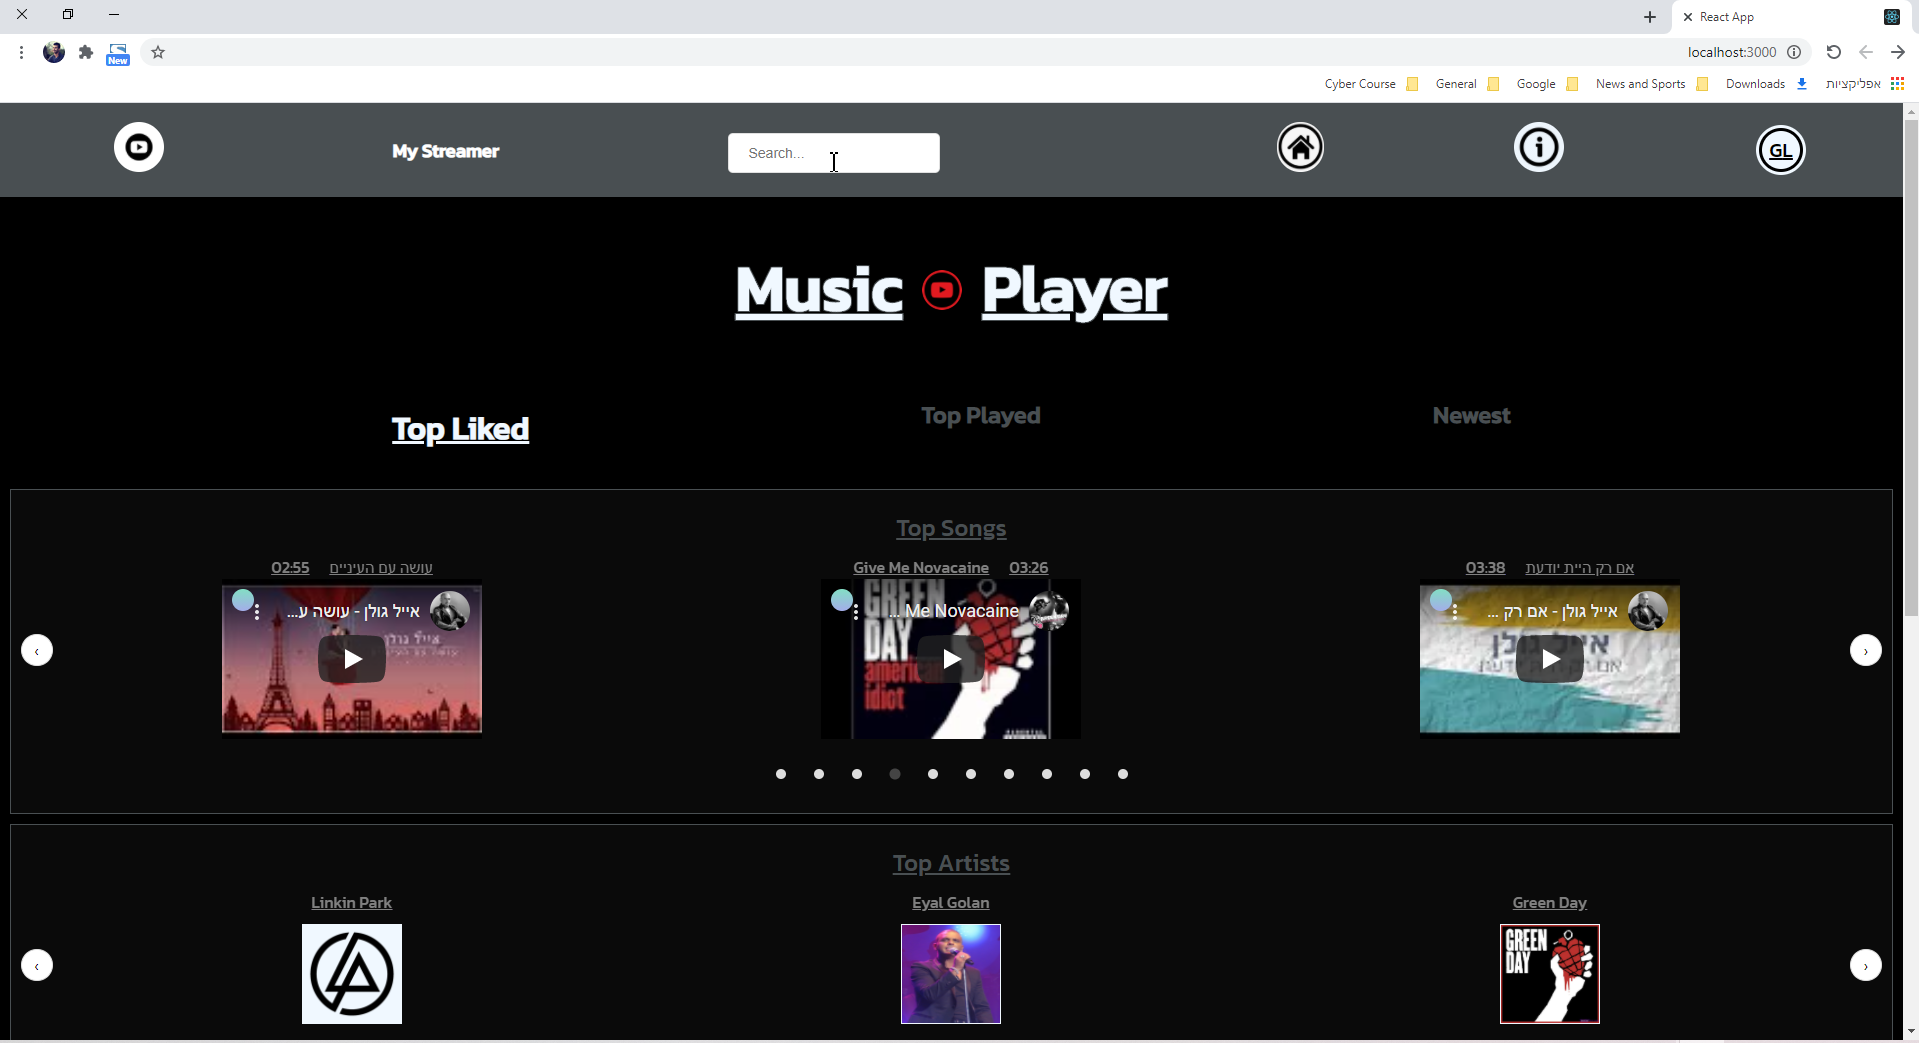
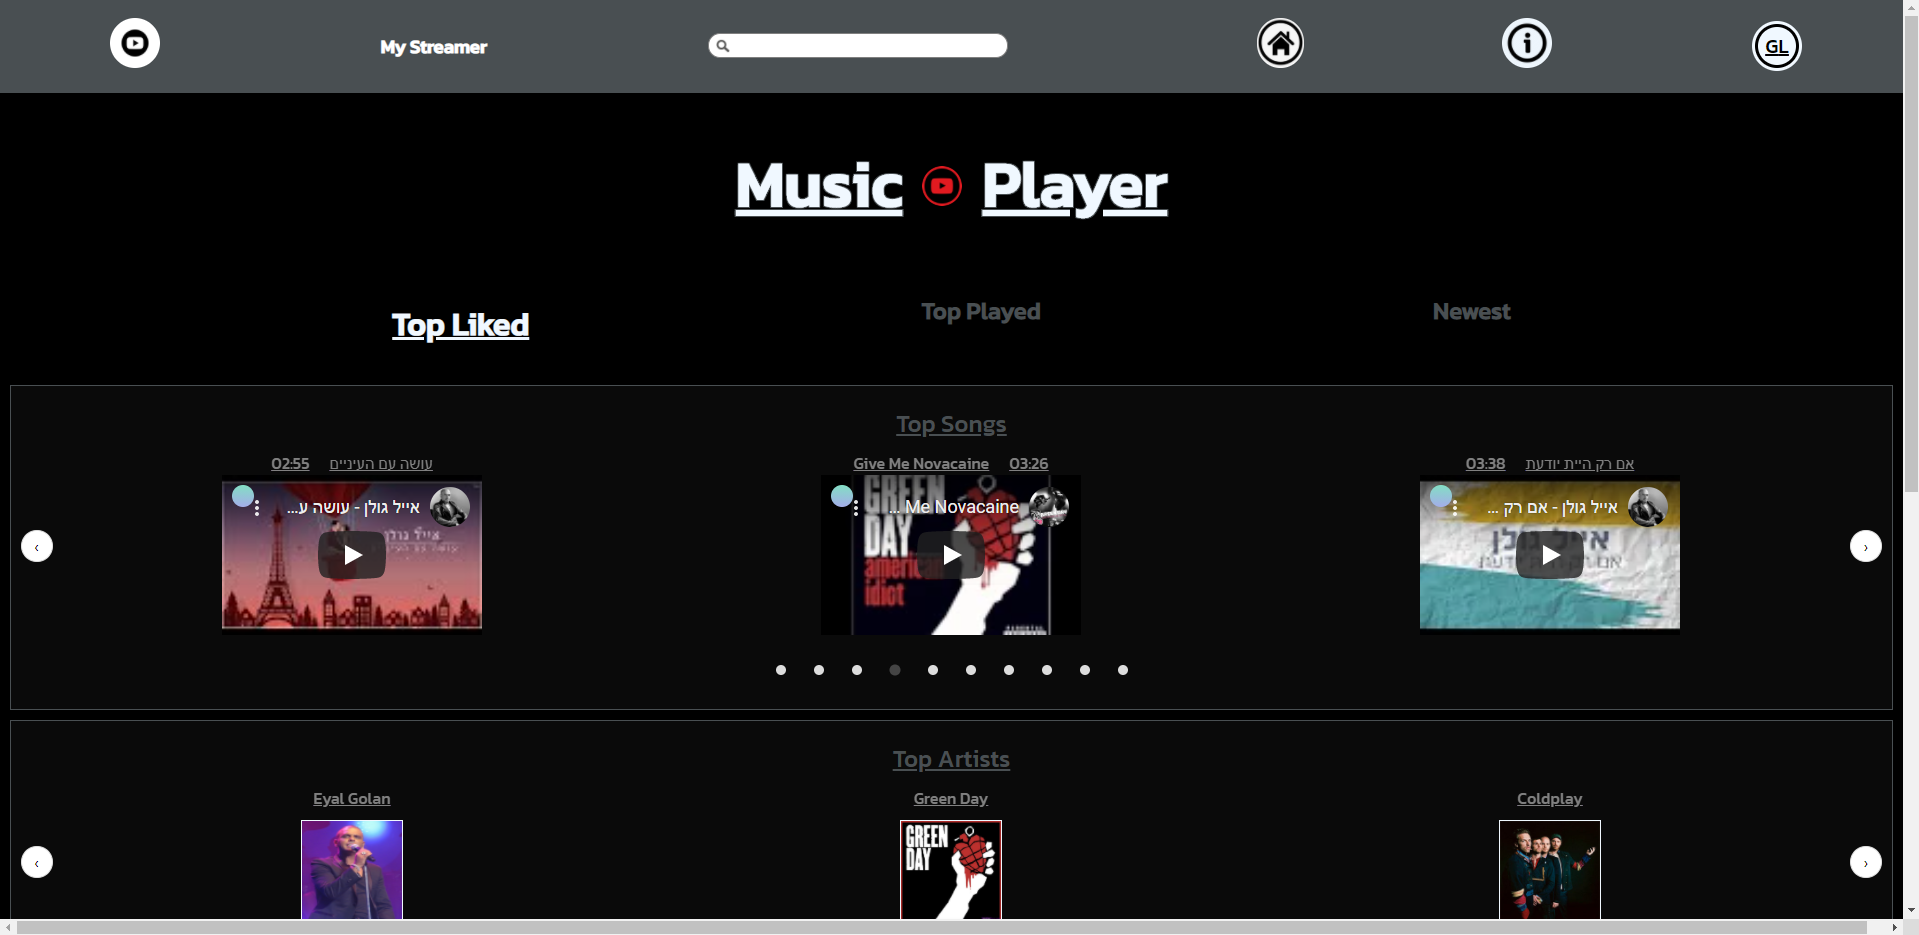
change the search bar and the read me file

diff --git a/server/routes/searchRoute.js b/server/routes/searchRoute.js
@@ -5,49 +5,55 @@ const { Op } = require("sequelize");
 const router = Router();
 
 router.get('/', async (req, res) => {
-
-    const allSongs = await Song.findAll({
-        where: {
-            title: {
-                [Op.startsWith]: req.query.params
-            }
-        }
-    });
-    const allArtists = await Artist.findAll({
-        where: {
-            name: {
-                [Op.startsWith]: req.query.params
-            }
-        }
-    });
-    const allAlbums = await Album.findAll({
-        where: {
-            name: {
-                [Op.startsWith]: req.query.params
-            }
-        }
-    });
-    const allPlaylists = await Playlist.findAll({
-        where: {
-            name: {
-                [Op.startsWith]: req.query.params
-            }
-        }
-    });
-
-    const songs = allSongs.map(song => {return ({ id: song.id, value: song.title, type: "song" }) })
-    const artists = allArtists.map(artist => {return ({ id: artist.id, value: artist.name, type: "artist" }) })
-    const albums = allAlbums.map(album => {return ({ id: album.id, value: album.name, type: "album" }) })
-    const playlists = allPlaylists.map(playlist => {return ({ id: playlist.id, value: playlist.name, type: "playlist" }) })
-
-    const arr = [];
-    songs.forEach(song => {arr.push(song)});
-    artists.forEach(artist => {arr.push(artist)});
-    albums.forEach(album => {arr.push(album)});
-    playlists.forEach(playlist => {arr.push(playlist)});
-
-    res.send(arr);
-
+    if (req.query.params === "") {
+        res.send(null);
+    } else {
+        const allSongs = await Song.findAll({
+            where: {
+                title: {
+                    [Op.startsWith]: req.query.params
+                }
+            },
+            limit: 3
+        });
+        const allArtists = await Artist.findAll({
+            where: {
+                name: {
+                    [Op.startsWith]: req.query.params
+                }
+            },
+            limit: 3
+        });
+        const allAlbums = await Album.findAll({
+            where: {
+                name: {
+                    [Op.startsWith]: req.query.params
+                }
+            },
+            limit: 3
+        });
+        const allPlaylists = await Playlist.findAll({
+            where: {
+                name: {
+                    [Op.startsWith]: req.query.params
+                }
+            },
+            limit: 3
+        });
+    
+        const songs = allSongs.map(song => {return ({ id: song.id, value: song.title, type: "song" }) })
+        const artists = allArtists.map(artist => {return ({ id: artist.id, value: artist.name, type: "artist" }) })
+        const albums = allAlbums.map(album => {return ({ id: album.id, value: album.name, type: "album" }) })
+        const playlists = allPlaylists.map(playlist => {return ({ id: playlist.id, value: playlist.name, type: "playlist" }) })
+    
+        const arr = [];
+        songs.forEach(song => {arr.push(song)});
+        artists.forEach(artist => {arr.push(artist)});
+        albums.forEach(album => {arr.push(album)});
+        playlists.forEach(playlist => {arr.push(playlist)});
+    
+        res.send(arr);
+    }
 })
 
 router.get('/all', async (req, res) => { 

diff --git a/client/src/components/navbar/Searchbar.js b/client/src/components/navbar/Searchbar.js
@@ -1,49 +1,62 @@
 import React, { useState, useEffect } from 'react';
-import axios from 'axios';
-import ReactSearchBox from 'react-search-box';
 import './Navbar.css';
+import axios from 'axios';
+
+// icons
+import searchIcon from './images/searchIcon.png';
+import songIcon from './images/songIcon.webp';
+import artistIcon from './images/artistIcon.png';
+import albumIcon from './images/albumIcon.webp';
+import playlistIcon from './images/playlistIcon.jpg';
+
 
 function Searchbar() {
 
     const [options, setOptions] = useState([]);
 
-
-    useEffect(() => {
-        (async () => {
-            try {
-            const { data } = await axios.get('/search/all');
-            setOptions(data);
-            }
-            catch(err) {
-                console.log(err.massage);
-            }
-        })()
-    }, [])
-
     const changeHandler = async (e) => {
         try {
-            const { data } = await axios.get(`/search?params=${e}`);
+            const { data } = await axios.get(`/search?params=${e.target.value}`);
             setOptions(data);
             }
             catch(err) {
                 console.log(err.massage);
             }
     }
-    const goToPage = (e) => {
-        const link = `/${e.type}/${e.id}`;
+    const goToPage = (type, id) => {
+        const link = `/${type}/${id}`;
         window.location.href = link;
     }
 
     return (
         <div className="searchContainer">
-            <ReactSearchBox
-                className="searchBox"
-                placeholder="Search..." 
-                data={options}
+            <img class="search-icon" src={searchIcon} alt="search"/>
+            <input 
+                id="search"
+                type="search" 
                 onChange={(e) => changeHandler(e)}
-                onSelect={(e) => goToPage(e)}
-                dropDownHoverColor="white"
             />
+            {options && (
+                <div className="options">
+                {options.map(option => 
+                    <div 
+                        className={"option " + option.type} 
+                        key={option.type + " " + option.id}
+                        onClick={() => goToPage(option.type, option.id)}
+                    >
+                            <div className="optionName">{option.value}</div>
+                            <div className="optionIconDiv">
+                                {option.type === "song" ? <img className="optionIcon" src={songIcon} alt="songIcon" />
+                                : option.type === "artist" ? <img className="optionIcon" src={artistIcon} alt="artistIcon" />
+                                : option.type === "album" ? <img className="optionIcon" src={albumIcon} alt="albumIcon" />
+                                : <img className="optionIcon" src={playlistIcon} alt="playlistIcon" />
+                            }
+                                
+                            </div>
+                    </div>
+                )}
+                </div>
+            )}
         </div> 
     );
 }

diff --git a/client/src/components/navbar/Navbar.css b/client/src/components/navbar/Navbar.css
@@ -1,3 +1,5 @@
+@import url('https://fonts.googleapis.com/css2?family=Architects+Daughter&family=Gloria+Hallelujah&family=Gochi+Hand&family=Permanent+Marker&display=swap');
+
 nav {
     display: flex;
     /* position: fixed; */
@@ -34,11 +36,69 @@ nav {
     transition: 1s;
 }
 
-/* searchBox */
 .searchContainer {
+    position: relative;
+}
+input[type="search"] {
+    
+	display: block; 
+    width: 100%; 
+    font-family: 'Architects Daughter', cursive;
+	letter-spacing: 1px;        
+	text-shadow: 0 0 2px black;       
+    font-size: large;
+    border: 1px solid grey;
+    border-radius: 100px;
+    padding: 2px 23px 2px 30px;
+    outline: 0;
+    height: 25px;
+}
+.search-icon {
     position: absolute;
-    color: black;
-    top: 30px;
+    top: 6px;
+    left: 8px;
+    width: 14px;
+}
+.options {
+    display: flex;
+    flex-direction: column;
+    align-items: center;
+    justify-content: center;
+    position: absolute;
+    color:  rgb(73, 79, 82);
+    text-shadow: 0 0 0.5px black;
+    width: 100%;
+}
+.option {
+    background-color: white;
+    margin: 5px auto;
+    cursor: pointer;
+    width: 100%;
+    display: flex;
+    align-items: center;
+    border-radius: 100px;
+}
+.optionName {
+    width: 90%;
+}
+.optionIconDiv {
+    width: 10%;
+    margin: 5px;
+}
+.optionIcon {
+    width: 100%;
+}
+.option.song {
+    background-color: rgb(120, 120, 120);
+}
+.option.artist {
+    background-color: rgb(165, 165, 165);
+}
+.option.album {
+    background-color: rgb(210, 210, 210);
+}
+.option.playlist {
+    background-color: rgb(255, 255, 255);
 }
 .login {
     display: flex;
@@ -74,8 +134,8 @@ nav {
     background-color: aliceblue;
     color: black;
     text-decoration: underline;
-    width: 44px;
-    height: 44px;
+    width: 38px;
+    height: 38px;
     font-size: 20px;
     border: 3px solid black;
     border-radius: 50%;

diff --git a/readme.md b/readme.md
@@ -6,7 +6,7 @@
 ###
 the repository includes database information from SQL DataBase, ("mysql2" package). 
 server side with Sequelize queries and packages of authentication like: "jsonwebtoken", "sequelize", "bcrypt", "cookie-parser", to make the service safe and authorized. 
-client side with usage of a lot of React packages, like: "react-router-dom", "styled-components-carousel", "react-search-box", "react-youtube", "recoil". for perfect use of the service.
+client side with usage of a lot of React packages, like: "react-router-dom", "styled-components-carousel", "react-youtube", "recoil". for perfect use of the service.
 ## Home Page
     the home page contains a list of of any: songs, artists, albums, playlists and a buttons to choose the selected sort of the top option you want - most liked, most played, or the newest on the service.
 ![Home Page](./images/homepage.png "Home Page")
